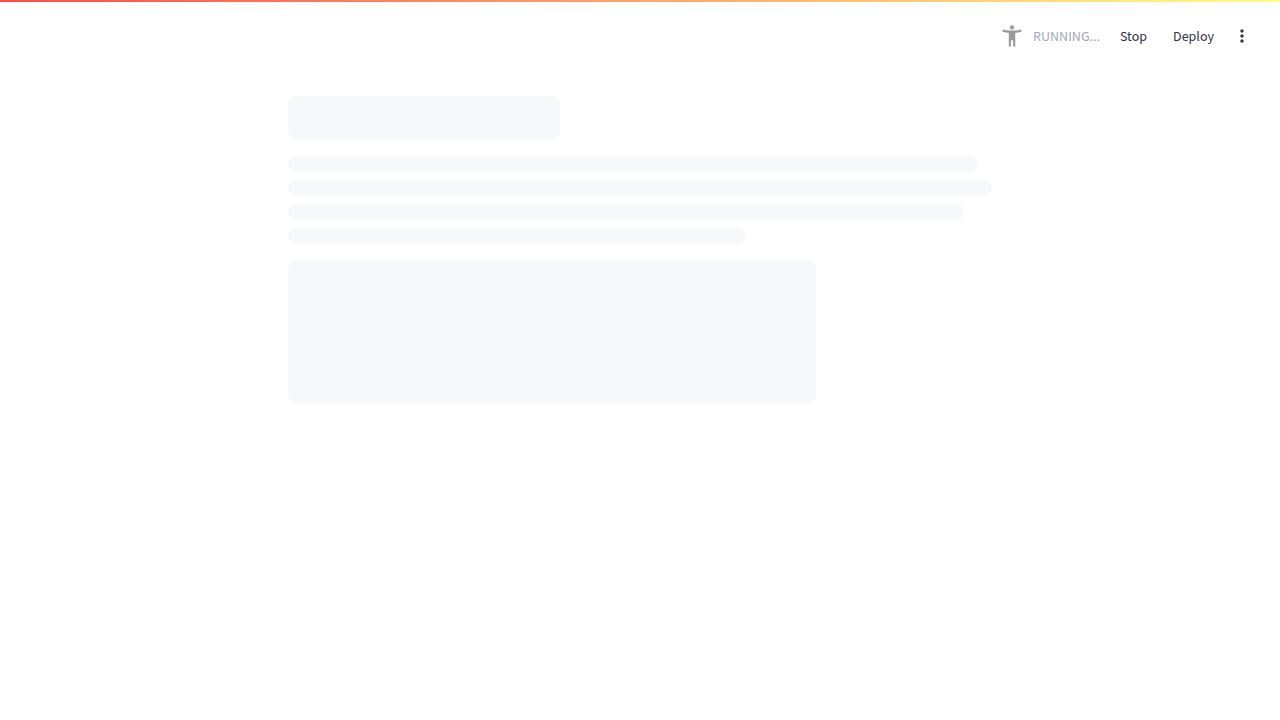
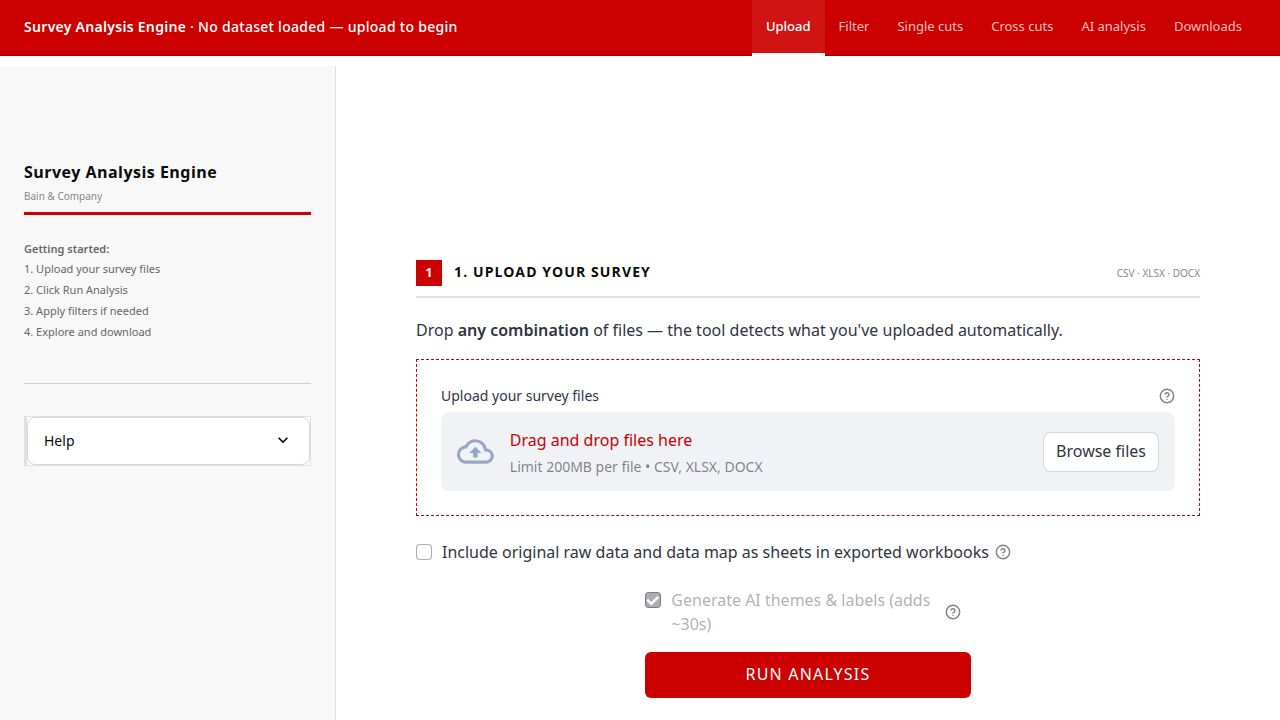
Refactor chart rendering and remove legacy download functionality
Refactored the chart rendering logic to split the `_render_recommended_chart_and_thinkcell` function into three distinct functions: `_thinkcell_chart_payload`, `_render_recommended_chart`, and `_render_thinkcell_layout`. This change also removes the legacy `.ppttc` zip-download and `build_ppttc_bundle` functionality, improving code organization and maintainability.

Replit-Commit-Author: Agent
Replit-Commit-Session-Id: 1f7e2626-b96d-4407-a3c6-c3ff9161cc2b
Replit-Commit-Checkpoint-Type: full_checkpoint
Replit-Commit-Event-Id: fa2b8720-2594-4f85-9000-e38c2eca7550
Replit-Commit-Screenshot-Url: https://storage.googleapis.com/screenshot-production-us-central1/bfe30bdd-353b-4a34-a48b-6024fd0147dc/1f7e2626-b96d-4407-a3c6-c3ff9161cc2b/h55fagy
Replit-Helium-Checkpoint-Created: true

diff --git a/artifacts/survey-insight-engine/app.py b/artifacts/survey-insight-engine/app.py
@@ -1551,13 +1551,11 @@ def _render_chart_for_distribution(
         app.caption(f"Chart unavailable: {type(exc).__name__}: {exc}")
 
 
-def _render_recommended_chart_and_thinkcell(result: Any, spec: Any) -> None:
-    """Render the rule-recommended chart and think-cell copy table."""
-
+def _thinkcell_chart_payload(result: Any, spec: Any):
+    """Compute (recommendation, payload) for the recommended chart, or None on error."""
     app = _require_streamlit()
     try:
         from src.chart_recommender import recommend_chart
-        from src.chart_renderer import render_chart
         from src.thinkcell_table_formatter import format_for_thinkcell
 
         recommendation = recommend_chart(result, spec)
@@ -1573,6 +1571,21 @@ def _render_recommended_chart_and_thinkcell(result: Any, spec: Any) -> None:
             question_text=getattr(spec, "question_text", "") or "",
             survey_name=str(survey_name),
         )
+        return recommendation, payload
+    except Exception as exc:  # noqa: BLE001
+        app.caption(f"Recommended chart unavailable: {type(exc).__name__}: {exc}")
+        return None
+
+
+def _render_recommended_chart(result: Any, spec: Any) -> None:
+    """Render the rule-recommended Plotly chart with a chart-type override."""
+    app = _require_streamlit()
+    computed = _thinkcell_chart_payload(result, spec)
+    if computed is None:
+        return
+    recommendation, payload = computed
+    try:
+        from src.chart_renderer import render_chart
     except Exception as exc:  # noqa: BLE001
         app.caption(f"Recommended chart unavailable: {type(exc).__name__}: {exc}")
         return
@@ -1642,94 +1655,37 @@ def _render_recommended_chart_and_thinkcell(result: Any, spec: Any) -> None:
         else:
             app.caption(f"Inline recommended chart unavailable: {type(exc).__name__}: {exc}")
 
-    button_label = (
-        recommendation.button_label_override
-        if recommendation.artifact_type == "formatted_table"
-        else None
-    ) or "Show think-cell formatted table"
 
-    ppttc_artifact = None
-    ppttc_bundle: tuple[bytes, str] | None = None
-    ppttc_warning: str | None = None
-    try:
-        from src.ppttc_generator import build_ppttc, build_ppttc_bundle
+def _render_thinkcell_layout(result: Any, spec: Any) -> None:
+    """Render the copy-paste think-cell datasheet table (no template, no download)."""
+    app = _require_streamlit()
+    computed = _thinkcell_chart_payload(result, spec)
+    if computed is None:
+        return
+    recommendation, payload = computed
+    app.write(f"**Chart type:** {recommendation.chart_type.value}")
+    app.write(
+        "**Layout for think-cell:** copy the table below and paste directly "
+        "into the think-cell datasheet for the recommended chart type."
+    )
+    app.code(payload.to_tsv(), language="tsv")
+    app.caption(
+        "Click in the box above, Ctrl+A, Ctrl+C to copy. Then in PowerPoint: "
+        "insert a think-cell "
+        + recommendation.chart_type.value.lower().replace("_", " ")
+        + " chart and paste into its datasheet."
+    )
 
-        template_path = PROJECT_ROOT / "sample_data" / "bain_survey_template.pptx"
-        cache_key = str(getattr(spec, "canonical_id", result.question_id))
-        cache_signature = (
-            recommendation.chart_type.value,
-            payload.to_tsv(),
-            str(template_path),
-        )
-        ppttc_cache = app.session_state.setdefault("_ppttc_artifact_cache", {})
-        cached = ppttc_cache.get(cache_key)
-        if cached and cached.get("signature") == cache_signature:
-            ppttc_artifact = cached.get("artifact")
-            ppttc_bundle = cached.get("bundle")
-        else:
-            ppttc_artifact = build_ppttc(
-                recommendation=recommendation,
-                payload=payload,
-                template_path=template_path,
-                question_id=cache_key,
-                question_label=getattr(spec, "question_text", "") or cache_key,
-            )
-            if ppttc_artifact is not None:
-                ppttc_bundle = build_ppttc_bundle(ppttc_artifact, template_path)
-            ppttc_cache[cache_key] = {
-                "signature": cache_signature,
-                "artifact": ppttc_artifact,
-                "bundle": ppttc_bundle,
-            }
-    except FileNotFoundError as exc:
-        ppttc_warning = str(exc)
-    except Exception as exc:  # noqa: BLE001
-        ppttc_warning = f"think-cell chart download unavailable: {type(exc).__name__}: {exc}"
 
-    table_col, download_col = app.columns([3, 1])
-    with table_col:
-        app.markdown(f"**{button_label}**")
-        with app.container():
-            app.write(f"**Chart type:** {recommendation.chart_type.value}")
-            app.write(
-                "**Layout for think-cell:** copy the table below and paste directly "
-                "into the think-cell datasheet for the recommended chart type."
-            )
-            app.code(payload.to_tsv(), language="tsv")
-            app.caption(
-                "Click in the box above, Ctrl+A, Ctrl+C to copy. Then in PowerPoint: "
-                "insert a think-cell "
-                + recommendation.chart_type.value.lower().replace("_", " ")
-                + " chart and paste into its datasheet."
-            )
-    with download_col:
-        if ppttc_artifact is not None:
-            for warning in ppttc_artifact.warnings:
-                app.caption("Warning: " + warning)
-            if ppttc_bundle is not None:
-                zip_bytes, zip_filename = ppttc_bundle
-                app.download_button(
-                    label="Generate think-cell chart (zip)",
-                    data=zip_bytes,
-                    file_name=zip_filename,
-                    mime="application/zip",
-                    key=f"ppttc_zip_{getattr(spec, 'canonical_id', result.question_id)}",
-                    help=(
-                        "Unzip both files into the same folder, then double-click "
-                        "the .ppttc. think-cell will open the template and populate "
-                        "the chart automatically."
-                    ),
-                )
-            with app.expander("Advanced: download .ppttc only", expanded=False):
-                app.download_button(
-                    label=".ppttc only (template must be in same folder)",
-                    data=ppttc_artifact.content_bytes,
-                    file_name=ppttc_artifact.filename,
-                    mime="application/octet-stream",
-                    key=f"ppttc_dl_{getattr(spec, 'canonical_id', result.question_id)}",
-                )
-        elif ppttc_warning:
-            app.caption(ppttc_warning)
+def _render_recommended_chart_and_thinkcell(result: Any, spec: Any) -> None:
+    """Chart up front; think-cell datasheet tucked into a collapsed dropdown.
+
+    Retained for result types not rendered with Chart/Table tabs.
+    """
+    app = _require_streamlit()
+    _render_recommended_chart(result, spec)
+    with app.expander("Think-cell layout", expanded=False):
+        _render_thinkcell_layout(result, spec)
 
 
 def _render_chart_for_cross_tab(
@@ -3159,9 +3115,9 @@ def _render_single_cut_result(result: Any, spec: Any) -> None:
         # across Counts / Counts+% / % only toggles.
         ss_counts = [p.get("count", 0) for _, p in sorted_dist.items()]
         ss_flags = _compute_outlier_flags(ss_counts)
-        tab_chart, tab_table = app.tabs(["Chart", "Table"])
+        tab_chart, tab_table, tab_tc = app.tabs(["Chart", "Table", "Think-cell"])
         with tab_chart:
-            _render_recommended_chart_and_thinkcell(result, spec)
+            _render_recommended_chart(result, spec)
         with tab_table:
             display_mode = app.radio(
                 "Display",
@@ -3179,6 +3135,8 @@ def _render_single_cut_result(result: Any, spec: Any) -> None:
                 flags=ss_flags,
                 key_suffix=str(result.question_id),
             )
+        with tab_tc:
+            _render_thinkcell_layout(result, spec)
     elif isinstance(result, MultiSelectResult):
         ms_dist: dict[Any, dict[str, Any]] = {}
         for sub_id, payload in result.selections.items():
@@ -3203,9 +3161,9 @@ def _render_single_cut_result(result: Any, spec: Any) -> None:
         # Compute flags ONCE from selected counts.
         ms_counts = [p.get("count", 0) for _, p in ms_dist.items()]
         ms_flags = _compute_outlier_flags(ms_counts)
-        tab_chart, tab_table = app.tabs(["Chart", "Table"])
+        tab_chart, tab_table, tab_tc = app.tabs(["Chart", "Table", "Think-cell"])
         with tab_chart:
-            _render_recommended_chart_and_thinkcell(result, spec)
+            _render_recommended_chart(result, spec)
         with tab_table:
             display_mode = app.radio(
                 "Display",
@@ -3227,6 +3185,8 @@ def _render_single_cut_result(result: Any, spec: Any) -> None:
                 "Selected counts only. Unchecked counts remain in the audit trail "
                 "of the downloaded workbook."
             )
+        with tab_tc:
+            _render_thinkcell_layout(result, spec)
     elif isinstance(result, NumericResult):
         rows = [
             {"Statistic": "Valid N", "Value": result.valid_n},
@@ -7675,4 +7635,3 @@ def _wizard_rerun(app: Any) -> None:
 
 if __name__ == "__main__":
     main()
-    